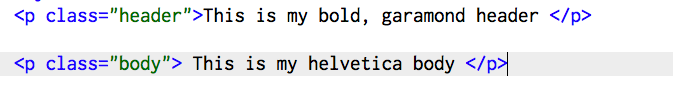
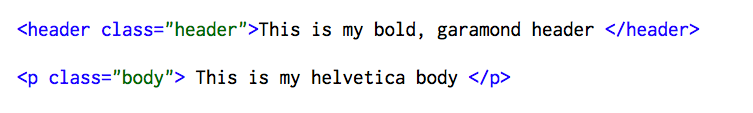
Add class vs id blog post

Changed region(s): [[0.0, 0.0625, 0.9361, 0.375], [0.0, 0.5625, 0.7801, 0.7812], [0.0312, 0.0, 0.0624, 0.0312]]

diff --git a/blog/css-concepts.html b/blog/css-concepts.html
@@ -1,66 +1,120 @@
 <!DOCTYPE html>
 <html>
-
 <head>
-  <link type="text/css" rel="stylesheets" href="../stylesheets/default.css">
-
-  <title>Jupiter's Blog</title>
-
+  <title>Working With Version Control</title>
+  <meta charset="UTF-8">
+  <link type="text/css" rel="stylesheet" href="../stylesheets/default.css">
+  <link type"text/css" rel="stylesheet" href="../stylesheets/blog.css">
+<title>Class vs ID</title>
 </head>
+
+<div id="div1">
+    <a href="file:///Users/bradleyjupiterbaudot/Desktop/dbc/curriculum/JupiterLikeThePlanet.github.io/blog/blog.html"><img src="../imgs/blogbutton.jpg" height="80" width="100" alt="My Photo"/></a>
+    <header>Class vs ID</header>
+
+</div>
+
+<div id="hline"></div>
+
+ <div>
+    <nav>
+    <br><a href="file:///Users/bradleyjupiterbaudot/Desktop/dbc/curriculum/JupiterLikeThePlanet.github.io/blog/blog.html">Home</a></br>
+    <br><a href="file:///Users/bradleyjupiterbaudot/Desktop/DBC/curriculum/JupiterLikeThePlanet.github.io/blog/t1-git-blog.html">Version Control</a></br>
+    <br><a href="file:///Users/bradleyjupiterbaudot/Desktop/DBC/curriculum/JupiterLikeThePlanet.github.io/blog/css-concepts.html">Class vs ID</a></br>
+    <br><a href"#">Post 3</a></br>
+    <br><a href"#">Post 4</a></br>
+    <br><a href"#">Post 5</a></br>
+    <br><a href"#">Post 6</a></br>
+    <br><a href"#">Post 7</a></br>
+    </nav>
+  </div>
 
 <body>
 
-  <img src="#"/>
 
-
-  <header><h1>Blog Title</h1></header>
-<h4>Side Bar</h4>
-<ul>
-<aside id="sidebar">
-  <li><section id="Post_1"></section>Post 1</li>
-  <li><section id="Post_2"></section>Post 2</li>
-  <li><section id="Post_3"></section>Post 3</li>
-  <li><section id="Post_4"></section>Post 4</li>
-  <li><section id="Post_5"></section>Post 5</li>
-  <li><section id="Post_6"></section>Post 6</li>
-  <li><section id="Post_7"></section>Post 7</li>
-</aside>
-</ul>
-
+<div id="div3">
+      <h2>Best Practices</h2>
+      <h4>September 5th, 2015</h4>
   <section>
+
     <h3> What are the best practices associated with using classes vs. ids?
  </h3>
     <p>
       The simple breakdown is this:
        <ol>
-       <li>CLASSES should be used for common elements (like 'p','div','a') on a page that will likely be repeated</li>
+       <li>Classes should be used for common elements (like 'p','div','a') on a page that will likely be repeated.</li>
 
-       <li>IDs should be used for a unique page element.  No two elements should share an ID</li>
+       <li>IDs should be used for a unique page element.  No two elements should share an ID.</li>
     </ol>
+  </section>
 
-    <p> Let's look at an example of a good time to use a CLASS.  Let's say we want to make the headers of each section to be bold and have the font, Garamond, and we want the paragraphs below to be in the font Helvetica.  A class would be appropriate here because it's establishing a thematic change throughout the page.  In your styling sheet, you would enter the code as such:
+    <h3> Ok, now what about these classes?</h3>
+    <p> Let's look at an example of a good time to use a CLASS (Note that in CSS, a selector with a '.' in front indicates a Class).  So let's say we want to make the headers of each section to be bold, have the font, Garamond, and a larger font size, while we want the paragraphs below to be in the font Helvetica.  A class would be appropriate here because it's establishing a thematic change throughout the page.  In your styling sheet, you would enter the code as such:
+    </p>
+
+      <p align="center"><img class="solidgold" height="20%" width="20%" src="../imgs/classCSS.png"/></p>
+
+    <p> On your html page, you'll enter the class within an element as such:
+    </p>
+
+    <p align="center">
+    <img class="solidgold" height="40%" width="50%" src="../imgs/classHTML.png"/>
     </p>
 
     <p>
-
-    <img src="../imgs/classCSS.png"/>
-
+    And the output on your website should look like this:
     </p>
 
-    <p> On your html page, you'll enter the class in the appropriate
-    </p>
-
-    <p>
-      <img src="../imgs/classHTML.png"/>
+    <p align="center">
+    <img class="solidgold" src="../imgs/classoutput.png"/>
     </p>
 
     </section>
+    <section>
+    <h3>And these IDs I've heard so much about?</h3>
+    <p>
+    Ok! Now let's do an example of an ID. In CSS, a selector with a '#' in front indicates a ID.  Now let's say that for our page, we're going to color code our sections by giving each header their own color.  In my stylesheet, here's how I'd do this:
+    </p>
+
+
+    <p align="center">
+    <img class="solidgold" src="../imgs/idcss.png"/>
+    </p>
+
+    <p>
+    You might notice that I also adjusted the width.  I did this to tailor the background color to the span of the sentence.  Feel free to tinker around with attributes like that until you get something you like.  You can now add the ID to the element in your html page, like so:
+    </p>
+
+    <p align="center">
+    <img class="solidgold" src="../imgs/idhtml.png"/>
+    </p>
+
+
+    <p>
+    The output in your browser will look like this:
+    </p>
+
+    <p align="center">
+    <img class="solidgold" src="../imgs/idouput.png"/>
+    </p>
+  </section>
+
+  <section>
+    <h3>Hey, did I see that you added a class and an ID?</h3>
+    <p>
+      Oh, you saw that, huh?  Well, guess what?  That's good that you did!  Because you can totally do something like that!  Of course, they don't have to go together, but isn't great that you know you can?  Knowledge is power!
+    </p>
+  </section>
 
 
 
-  <footer><h6>Blog Footer</h6></footer>
 
+
+<div id="hline"></div>
+<footer><h6>Legalese, Time Stamp, Credits</h6></footer>
 </body>
+
+
 
 </html>
 

diff --git a/blog/blog.html b/blog/blog.html
@@ -11,13 +11,14 @@
 
 <div>
   <nav>
-    <img src="../imgs/blogbutton.jpg" height="80" width="100" alt="My Photo"/>
+    <a href="file:///Users/bradleyjupiterbaudot/Desktop/dbc/curriculum/JupiterLikeThePlanet.github.io/blog/blog.html"><img src="../imgs/blogbutton.jpg" height="80" width="100" alt="My Photo"/></a>
     <p>Pedagological break downs
       <br>(a.k.a How stuff works)</br>
     </p>
     <div id="hline"></div>
+    <br><a href="file:///Users/bradleyjupiterbaudot/Desktop/DBC/curriculum/JupiterLikeThePlanet.github.io/blog/indexB.html#">Back To Main Page</a></br>
     <br><a href="file:///Users/bradleyjupiterbaudot/Desktop/DBC/curriculum/JupiterLikeThePlanet.github.io/blog/t1-git-blog.html">Working With Version Control</a></br>
-    <br><a href"#">Post 2</a></br>
+    <br><a href="file:///Users/bradleyjupiterbaudot/Desktop/DBC/curriculum/JupiterLikeThePlanet.github.io/blog/css-concepts.html">Class vs ID</a></br>
     <br><a href"#">Post 3</a></br>
     <br><a href"#">Post 4</a></br>
     <br><a href"#">Post 5</a></br>
@@ -38,8 +39,8 @@
   </figure>
 
   <figure class="row1">
-    <img src="../imgs/coming-soon1.png" alt="Post 2" width = "304" height = "228"/>
-    <figcaption>Post 2</figcaption>
+    <a href="file:///Users/bradleyjupiterbaudot/Desktop/DBC/curriculum/JupiterLikeThePlanet.github.io/blog/css-concepts.html"><img src="../imgs/idclass.jpg" alt="Post 2" width = "304" height = "228"/></a>
+    <figcaption><a href="file:///Users/bradleyjupiterbaudot/Desktop/DBC/curriculum/JupiterLikeThePlanet.github.io/blog/css-concepts.html">Class vs ID</a></figcaption>
   </figure>
 
   <figure class="row1">

diff --git a/blog/t1-git-blog.html b/blog/t1-git-blog.html
@@ -1,4 +1,5 @@
 <!DOCTYPE html>
+<html>
 <head>
   <title>Working With Version Control</title>
   <meta charset="UTF-8">
@@ -16,8 +17,9 @@
 
   <div>
     <nav>
-    <br><a href"#">Version Control</a></br>
-    <br><a href"#">Post 2</a></br>
+    <br><a href="file:///Users/bradleyjupiterbaudot/Desktop/DBC/curriculum/JupiterLikeThePlanet.github.io/blog/indexB.html#">Home</a></br>
+    <br><a href="file:///Users/bradleyjupiterbaudot/Desktop/DBC/curriculum/JupiterLikeThePlanet.github.io/blog/t1-git-blog.html">Version Control</a></br>
+    <br><a href="file:///Users/bradleyjupiterbaudot/Desktop/DBC/curriculum/JupiterLikeThePlanet.github.io/blog/css-concepts.html">Class vs ID</a></br>
     <br><a href"#">Post 3</a></br>
     <br><a href"#">Post 4</a></br>
     <br><a href"#">Post 5</a></br>
@@ -69,7 +71,7 @@
   </section>
 </div>
 
-<div id="hline"></div>
+
 <footer>
   <h6>Legalese here, Time Stamp, Credits</h6>
 </footer>

diff --git a/practice.html b/practice.html
@@ -7,7 +7,9 @@
 </head>
 
 <body>
-  <p class="header">This is my bold, garamond header </p>
+
+
+  <header class="header" id="pink">This is my bold, garamond header </header>
 
   <p class="body"> This is my helvetica body </p>
 

diff --git a/stylesheets/blog.css b/stylesheets/blog.css
@@ -44,3 +44,12 @@ h4 {
   position: relative;
   margin-left: 10em;
 }
+
+/****************Borders**************/
+
+.solidgold{
+  border-style: groove;
+  border-color: #c5b358;
+}
+
+#ffd700;

diff --git a/stylesheets/practice.css b/stylesheets/practice.css
@@ -9,6 +9,14 @@
   font-family: Helvetica;
 }
 
+
+#pink{
+  background-color: #ff69b4;
+  width:33%;
+}
+
+
+
 /*{
   color:red;
   font-family: courier;
